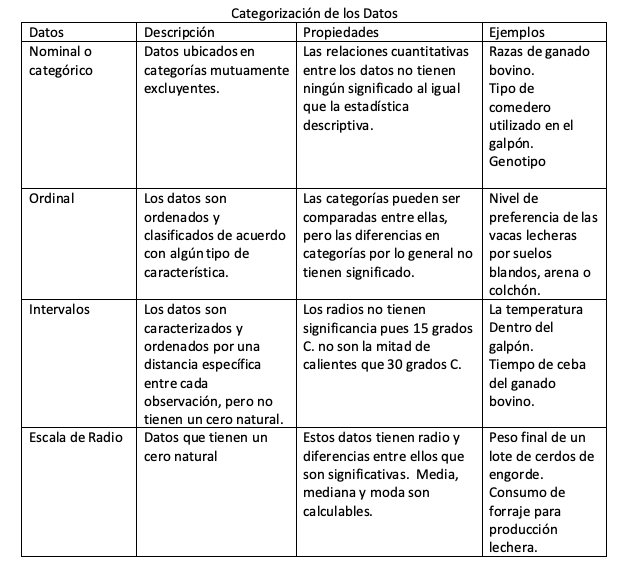
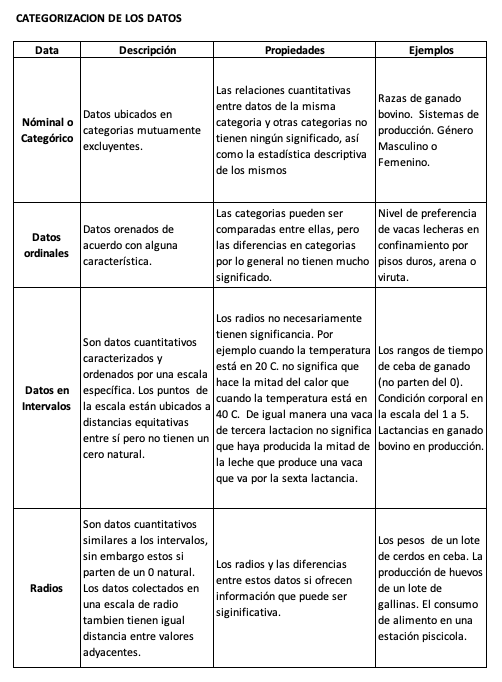
correcniones a la tabla de datos y la bibliografia en la pagina post

Changed region(s): [[0.0299, 0.0, 0.9861, 1.0]]

diff --git a/src/Pages/Post.jsx b/src/Pages/Post.jsx
@@ -163,7 +163,7 @@ const Post = () =>{
                 />
             </SubChapter>
             <ReferencesBlock 
-            references = {[<a href="https://www.statista.com/statistics-glossary/definition/351/raw_data/"><u>Defición de Datos Crudos</u>. Enciclopedia Statista. Consultado en Mayo 2021 </a>,<a href="https://www.sisense.com/blog/understanding-structured-and-unstructured-data/"><u>Entendiendo la data estructurada y desestructurada. </u>De Couto Carmen, 2020 en Sisense.com.  Consultado Mayo 2021</a>,<a href="https://www.questionpro.com/blog/nominal-ordinal-interval-ratio/"><u>Niveles de Medición </u>en questionpro.com. Consultado Mayo 2021 </a>,<a href="https://www.oracle.com/ca-en/data-science/what-is-data-science.html"> <u>Qué es la Ciencia de los Datos?</u> Oracle. Consultado en Mayo 2021.</a>,<a href="https://ischoolonline.berkeley.edu/data-science/what-is-data-science/"><u>Qué es la Ciencia de los Datos?</u> Berkeley School of Information.  Consultado en Mayo 2021.</a>,<a href="https://www.displayr.com/what-is-raw-data/"><u>Qué son los Datos Crudos? </u> Bock Tim, 2018 en displayr.com </a>
+            references = {[<a href="https://www.statista.com/statistics-glossary/definition/351/raw_data/"><u>Defición de Datos Crudos</u>. Enciclopedia Statista. Consultado en Mayo 2021 </a>,<a href="https://www.sisense.com/blog/understanding-structured-and-unstructured-data/"><u>Entendiendo la data estructurada y desestructurada. </u>De Couto Carmen, 2020 en Sisense.com.  Consultado Mayo 2021</a>,"Excel data analysis: modeling and simulation. Guerrero, H., 2010. Springer Science & Business Media.", <a href="https://www.questionpro.com/blog/nominal-ordinal-interval-ratio/"><u>Niveles de Medición </u>en questionpro.com. Consultado Mayo 2021 </a>,<a href="https://www.oracle.com/ca-en/data-science/what-is-data-science.html"> <u>Qué es la Ciencia de los Datos?</u> Oracle. Consultado en Mayo 2021.</a>,<a href="https://ischoolonline.berkeley.edu/data-science/what-is-data-science/"><u>Qué es la Ciencia de los Datos?</u> Berkeley School of Information.  Consultado en Mayo 2021.</a>,<a href="https://www.displayr.com/what-is-raw-data/"><u>Qué son los Datos Crudos? </u> Bock Tim, 2018 en displayr.com </a>
 
             ]}
             />
